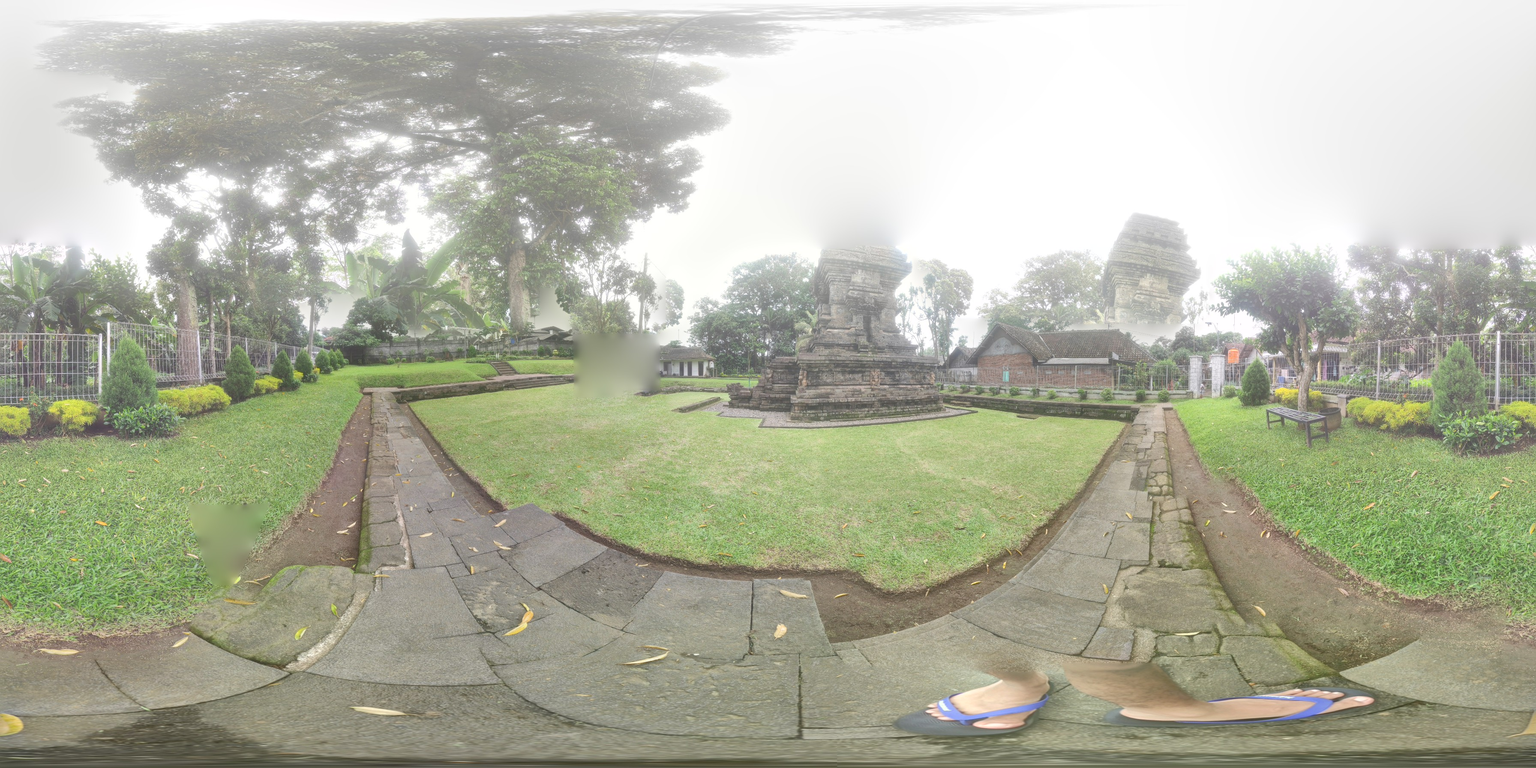
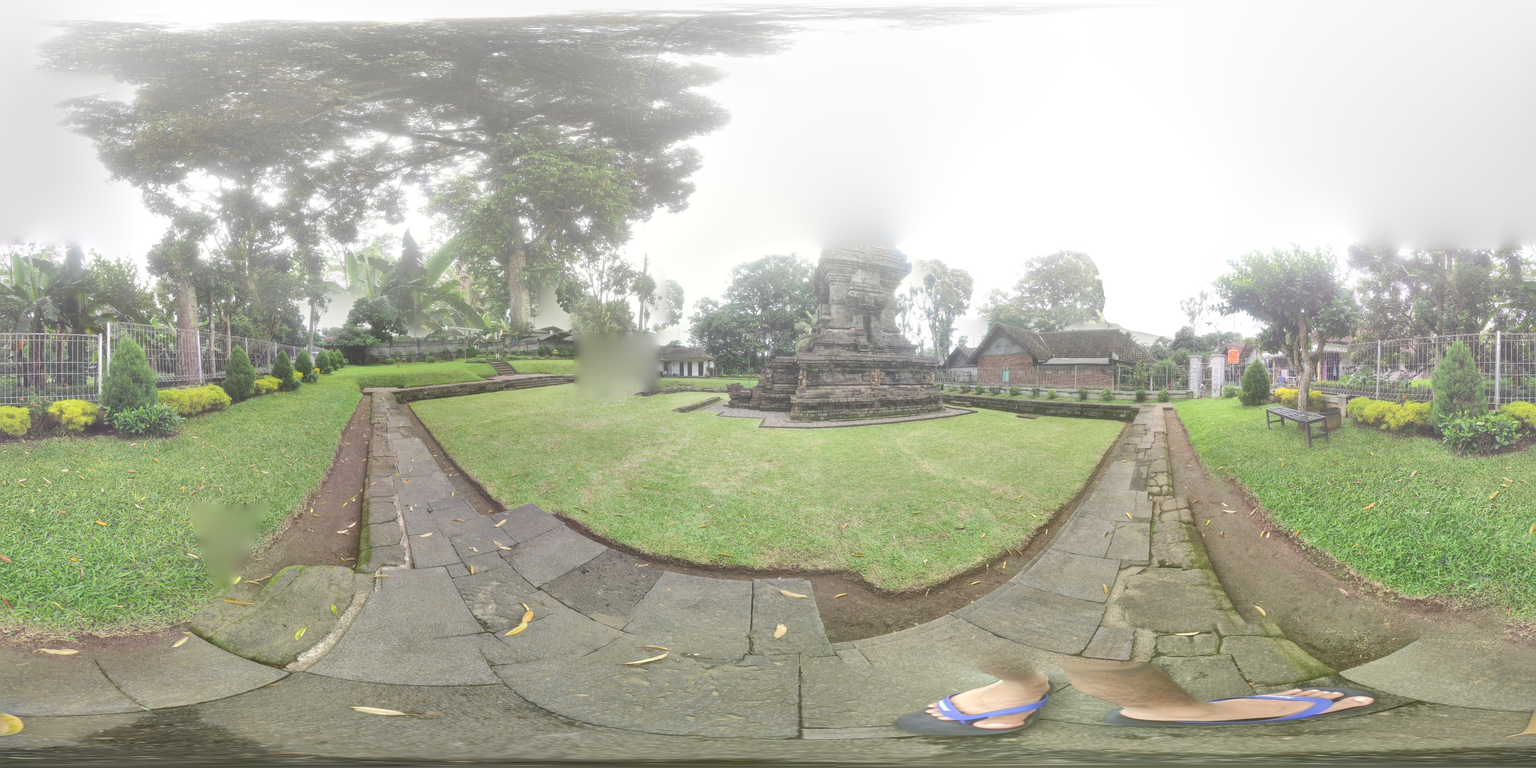
changing background

Changed region(s): [[0.7188, 0.2812, 0.7812, 0.4375]]

diff --git a/projekakhir RT2/index6.html b/projekakhir RT2/index6.html
@@ -64,7 +64,7 @@
 
 
       <!-- SKY 1 -->
-      <a-sky src="img/kidal depan.jpg" rotation="0 -90 0"></a-sky>
+      <a-sky src="img/PANO_20251127_113852_20.jpg" rotation="0 -90 0"></a-sky>
 
 
       <!-- ===================== FITUR BARU: TOMBOL INFORMASI (Pemicu Popup) ===================== -->

diff --git a/projekakhir RT2/index5.html b/projekakhir RT2/index5.html
@@ -29,7 +29,7 @@
 
 
       <!-- SKY 1 -->
-      <a-sky src="img/kidal entrance dalam.jpg" rotation="0 -90 0"></a-sky>
+      <a-sky src="img/PANO_20251127_110418_3.jpg" rotation="0 -90 0"></a-sky>
 
 
       <!-- BUTTON → NEXT (ke Scene 2) -->

diff --git a/projekakhir RT2/index8.html b/projekakhir RT2/index8.html
@@ -29,7 +29,7 @@
 
 
       <!-- SKY 1 -->
-      <a-sky src="img/kidal kanan belakang.jpg" rotation="0 -90 0"></a-sky>
+      <a-sky src="img/PANO_20251127_111622_8.jpg" rotation="0 -90 0"></a-sky>
 
 
       <!-- BUTTON → NEXT (ke Scene 2) -->

diff --git a/projekakhir RT2/index9.html b/projekakhir RT2/index9.html
@@ -29,7 +29,7 @@
 
 
       <!-- SKY 1 -->
-      <a-sky src="img/kidal kiri belakang.jpg" rotation="0 -90 0"></a-sky>
+      <a-sky src="img/PANO_20251127_112347_10.jpg" rotation="0 -90 0"></a-sky>
 
 
       <!-- BUTTON → NEXT (ke Scene 2) -->

diff --git a/projekakhir RT2/index7.html b/projekakhir RT2/index7.html
@@ -29,7 +29,7 @@
 
 
       <!-- SKY 1 -->
-      <a-sky src="img/kidal kanan depan.jpg" rotation="0 -90 0"></a-sky>
+      <a-sky src="img/PANO_20251127_111004_5.jpg" rotation="0 -90 0"></a-sky>
 
 
       <!-- BUTTON → NEXT (ke Scene 2) -->

diff --git a/projekakhir RT2/index11.html b/projekakhir RT2/index11.html
@@ -29,7 +29,7 @@
 
 
       <!-- SKY 1 -->
-      <a-sky src="img/PANO_20251127_105224_4.jpg" rotation="0 -90 0"></a-sky>
+      <a-sky src="img/kamar mandi.jpg" rotation="0 -90 0"></a-sky>
 
 
       <!-- BUTTON → NEXT (ke Scene 2) -->
